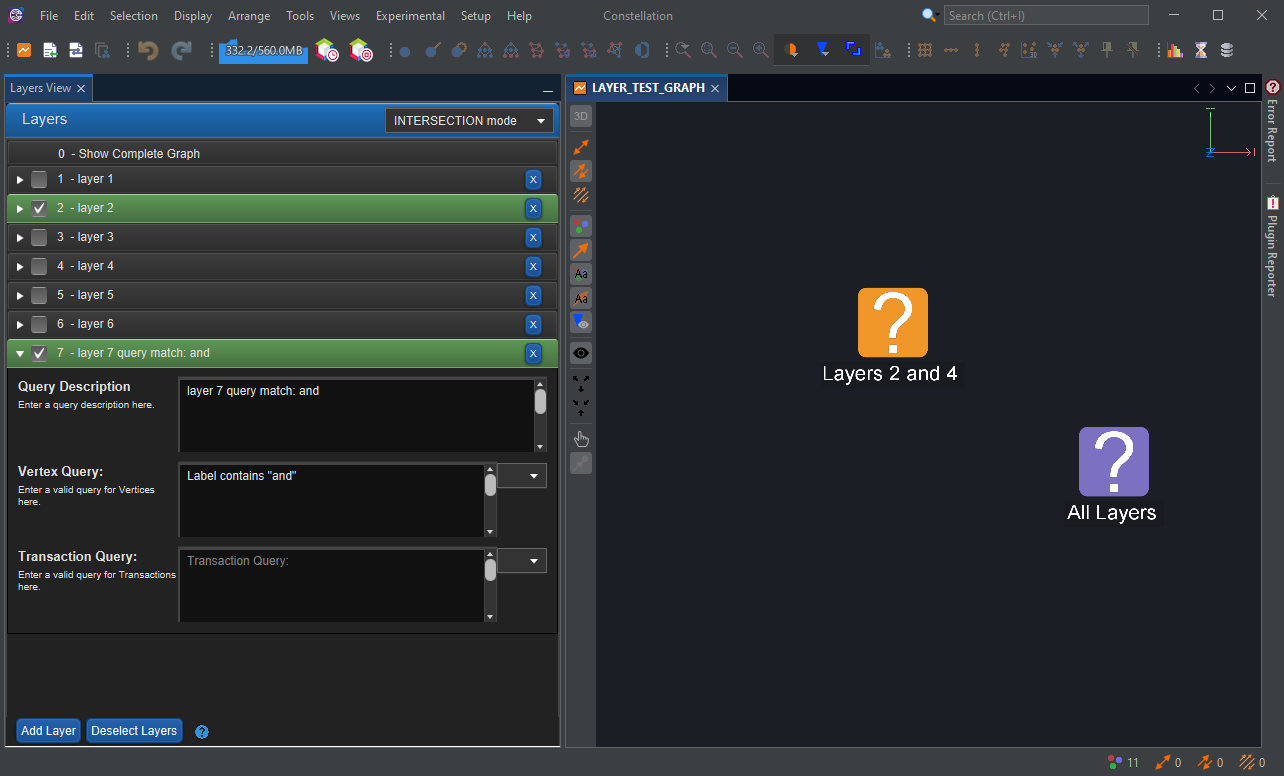
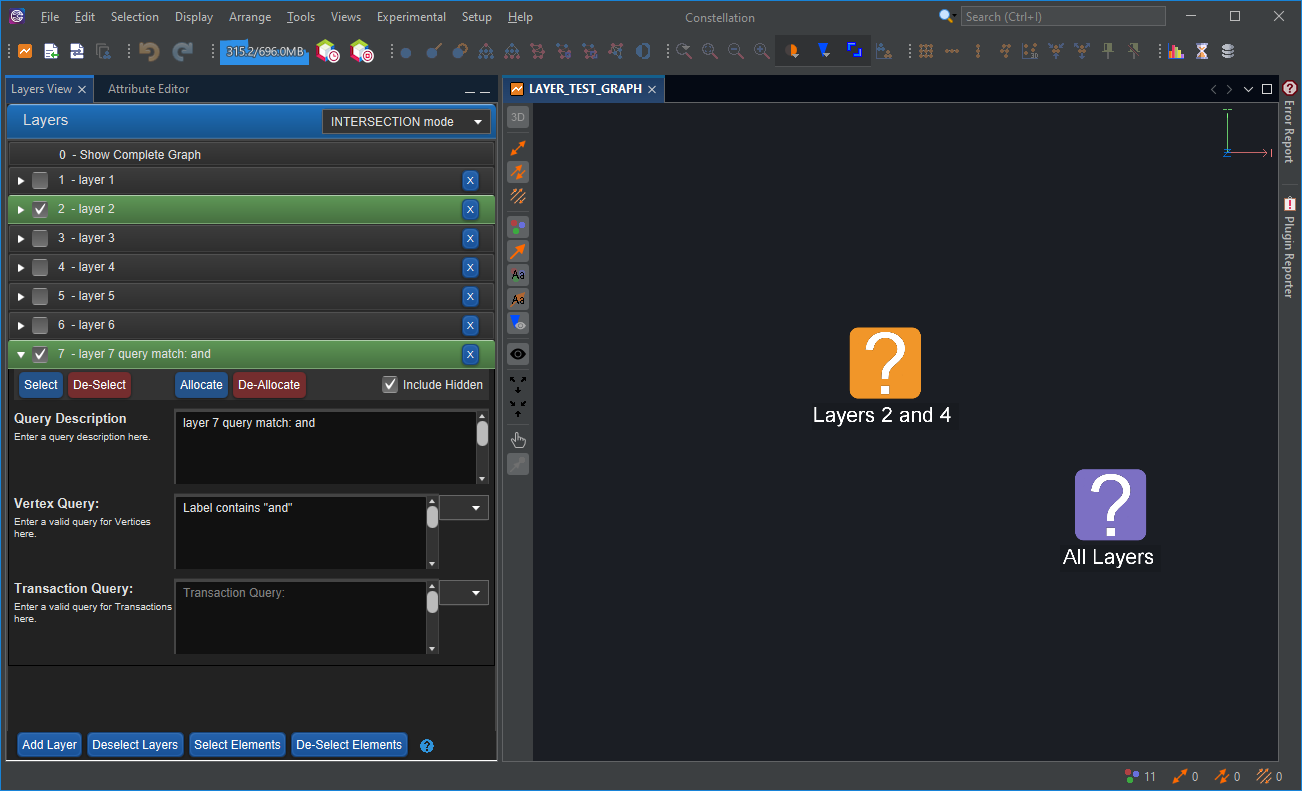
Updated help

Changed region(s): [[0.0, 0.0, 1.0, 1.0], [0.6231, 0.3711, 0.7477, 0.5567], [0.81, 0.5258, 0.9034, 0.7113]]

diff --git a/CoreLayersView/src/au/gov/asd/tac/constellation/views/layers/resources/layers-view-light.css b/CoreLayersView/src/au/gov/asd/tac/constellation/views/layers/resources/layers-view-light.css
@@ -90,3 +90,22 @@
     -fx-border-color: white;
 }
 
+
+#layer-function-enable {
+    -fx-text-fill: black;
+    -fx-background-color: #8fb8e8;
+}
+
+#layer-function-enable:hover {
+    -fx-text-fill: black;
+    -fx-background-color: #98c2f3;
+}
+
+#layer-function-disable {
+    -fx-text-fill: black;
+    -fx-background-color: #e7a09c;
+}
+#layer-function-disable:hover {
+    -fx-text-fill: black;
+    -fx-background-color: #f4aaa4;
+}

diff --git a/CoreLayersView/src/au/gov/asd/tac/constellation/views/layers/resources/layers-view-dark.css b/CoreLayersView/src/au/gov/asd/tac/constellation/views/layers/resources/layers-view-dark.css
@@ -84,3 +84,18 @@
 #layer-checkbox {
     -fx-padding: 2 0 0 0;
 }
+
+#layer-function-enable {
+    -fx-background-color: #245288;
+}
+
+#layer-function-enable:hover {
+    -fx-background-color: #33659c;
+}
+
+#layer-function-disable {
+    -fx-background-color: #742d2e;
+}
+#layer-function-disable:hover {
+    -fx-background-color: #8a3b3c;
+}

diff --git a/CoreLayersView/src/au/gov/asd/tac/constellation/views/layers/components/LayerTitlePane.java b/CoreLayersView/src/au/gov/asd/tac/constellation/views/layers/components/LayerTitlePane.java
@@ -16,6 +16,7 @@
 package au.gov.asd.tac.constellation.views.layers.components;
 
 import au.gov.asd.tac.constellation.graph.GraphElementType;
+import au.gov.asd.tac.constellation.graph.manager.GraphManager;
 import au.gov.asd.tac.constellation.graph.value.utilities.ExpressionUtilities;
 import au.gov.asd.tac.constellation.utilities.javafx.JavafxStyleManager;
 import au.gov.asd.tac.constellation.views.layers.LayersViewController;
@@ -143,33 +144,27 @@ public class LayerTitlePane extends TitledPane {
         includeHidden.setSelected(true);
         final Button selectAllocations = new Button("Select");
         selectAllocations.setTooltip(new Tooltip("Select Layer %d Elements".formatted(query.getIndex())));
-        selectAllocations.setOnAction(e -> {
-            LayersUtilities.selectLayerElements((int) Math.pow(2 , query.getIndex()), true, includeHidden.isSelected());
-        });
+        selectAllocations.setOnAction(e -> LayersUtilities.selectLayerElements((int) Math.pow(2 , query.getIndex()), true, includeHidden.isSelected()));
+        selectAllocations.setId("layer-function-enable");
         final Button deselectAllocations = new Button("De-Select");
         deselectAllocations.setTooltip(new Tooltip("De-Select Layer %d Elements".formatted(query.getIndex())));
-        deselectAllocations.setOnAction(e -> {
-            LayersUtilities.selectLayerElements((int) Math.pow(2 , query.getIndex()), false, includeHidden.isSelected());
-        });
+        deselectAllocations.setOnAction(e -> LayersUtilities.selectLayerElements((int) Math.pow(2 , query.getIndex()), false, includeHidden.isSelected()));
+        deselectAllocations.setId("layer-function-disable");
         final Button allocateSelections = new Button("Allocate");
         allocateSelections.setTooltip(new Tooltip("Allocate Selected Elements to Layer %d".formatted(query.getIndex())));
         allocateSelections.setOnAction(e -> {
             LayersUtilities.allocateElementsForLayer((int) Math.pow(2 , query.getIndex()), true, includeHidden.isSelected());
+            LayersViewController.getDefault().updateQueries(GraphManager.getDefault().getActiveGraph());
         });
+        allocateSelections.setId("layer-function-enable");
         final Button deallocateSelections = new Button("De-Allocate");
         deallocateSelections.setTooltip(new Tooltip("De-Allocate Selected Elements from Layer %d".formatted(query.getIndex())));
         deallocateSelections.setOnAction(e -> {
             LayersUtilities.allocateElementsForLayer((int) Math.pow(2 , query.getIndex()), false, includeHidden.isSelected());
+            LayersViewController.getDefault().updateQueries(GraphManager.getDefault().getActiveGraph());
         });
-                
-        String enablingBackgroundColorStyle = DARK_MODE ? " -fx-background-color: #245288; " : " -fx-background-color: #96BCEF; -fx-text-fill: black; "; // #51a5f8 #b0d0f0
-        String disablingBackgroundColorStyle = DARK_MODE ? " -fx-background-color: #742D2E; " : " -fx-background-color: #f0a8a2; -fx-text-fill: black; "; // ffbfbf ECABAB
-        Color buttonBackground = DARK_MODE ? new Color(0.20,0.20,0.20,1) : new Color(0.86,0.86,0.86,1);
-        allocateSelections.setStyle(enablingBackgroundColorStyle);
-        deallocateSelections.setStyle(disablingBackgroundColorStyle);
-        selectAllocations.setStyle(enablingBackgroundColorStyle);
-        deselectAllocations.setStyle(disablingBackgroundColorStyle);
-
+        deallocateSelections.setId("layer-function-disable");
+        final Color buttonBackground = DARK_MODE ? new Color(0.20,0.20,0.20,1) : new Color(0.86,0.86,0.86,1);
         final HBox buttonsLeft = new HBox(selectAllocations, deselectAllocations);
         final HBox buttonsRight = new HBox(allocateSelections, deallocateSelections);
         final HBox emptySpace = new HBox(new Label(" "));

diff --git a/CoreLayersView/release/modules/ext/docs/CoreLayersView/src/au/gov/asd/tac/constellation/views/layers/layers-view.md b/CoreLayersView/release/modules/ext/docs/CoreLayersView/src/au/gov/asd/tac/constellation/views/layers/layers-view.md
@@ -103,6 +103,20 @@ Click
 [here](../ext/docs/CoreGraphFramework/src/au/gov/asd/tac/constellation/graph/expressions-framework.md)
 for more information on the structure of the expression framework
 
+
+## Layer Functions  
+  
+<img src="../ext/docs/CoreLayersView/src/au/gov/asd/tac/constellation/views/layers/resources/LayerFunctions.png" alt="Layer specific functions" />  
+  
+The __Select__ button will select only the graph elements that are allocated to the corresponding layer.  
+The __De-Select__ button will deselect only the graph elements that are allocated to the corresponding layer.  
+The __Allocate__ button will directly allocate all selected graph elements to the corresponding layer, while maintaining any allocations to other layers.  
+The __De-Allocate__ button will directly deallocate all selected graph elements to the corresponding layer, while maintaining any allocations to other layers.  
+  
+The __Include Hidden__ checkbox allows selections and allocations to occur on graph elements even if they are currently not being displayed.  
+When this is unchecked, only the currently displayed graph elements will be affected.  
+  
+
 ## Union and Intersection Modes  
   
 At the top right of the Layers View you can switch between <img src="../ext/docs/CoreLayersView/src/au/gov/asd/tac/constellation/views/layers/resources/UnionMode.png" alt="Layers View : Union Mode" /> and <img src="../ext/docs/CoreLayersView/src/au/gov/asd/tac/constellation/views/layers/resources/IntersectionMode.png" alt="Layers View : Intersection Mode" />  
